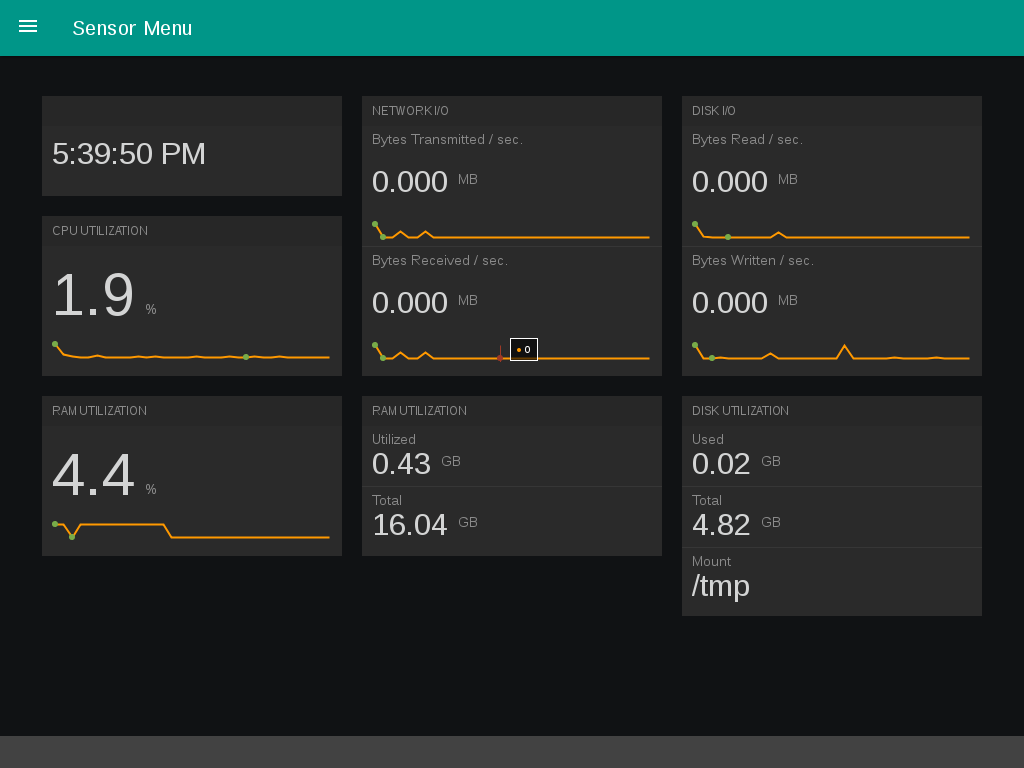
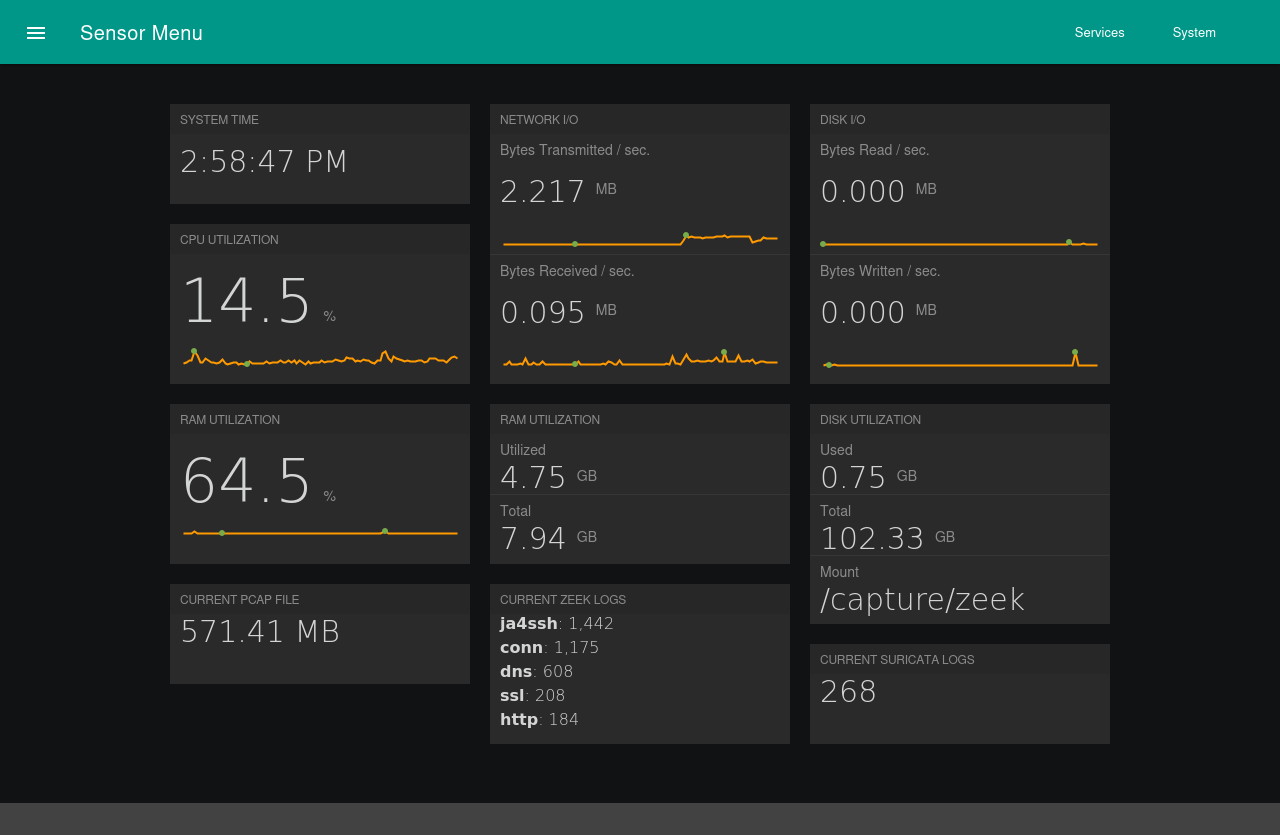
checkpoint commit for cisagov/Malcolm#566, documentation/screenshot

diff --git a/docs/malcolm-hedgehog-e2e-iso-install.md b/docs/malcolm-hedgehog-e2e-iso-install.md
@@ -400,6 +400,9 @@ At the end of the installation process, users will be prompted with a few self-e
 
 Following these prompts, the installer will reboot and Hedgehog Linux will boot into [kiosk mode](hedgehog-boot.md#HedgehogKioskMode).
 
+
+![Kiosk mode sensor menu: resource statistics](./images/hedgehog/images/kiosk_mode_sensor_menu.png)
+
 Kiosk mode can be exited by connecting an external USB keyboard and pressing **Alt+F4**, upon which the *sensor* user's desktop is shown.
 
 ### <a name="HedgehogDesktop"></a> Desktop Environment
